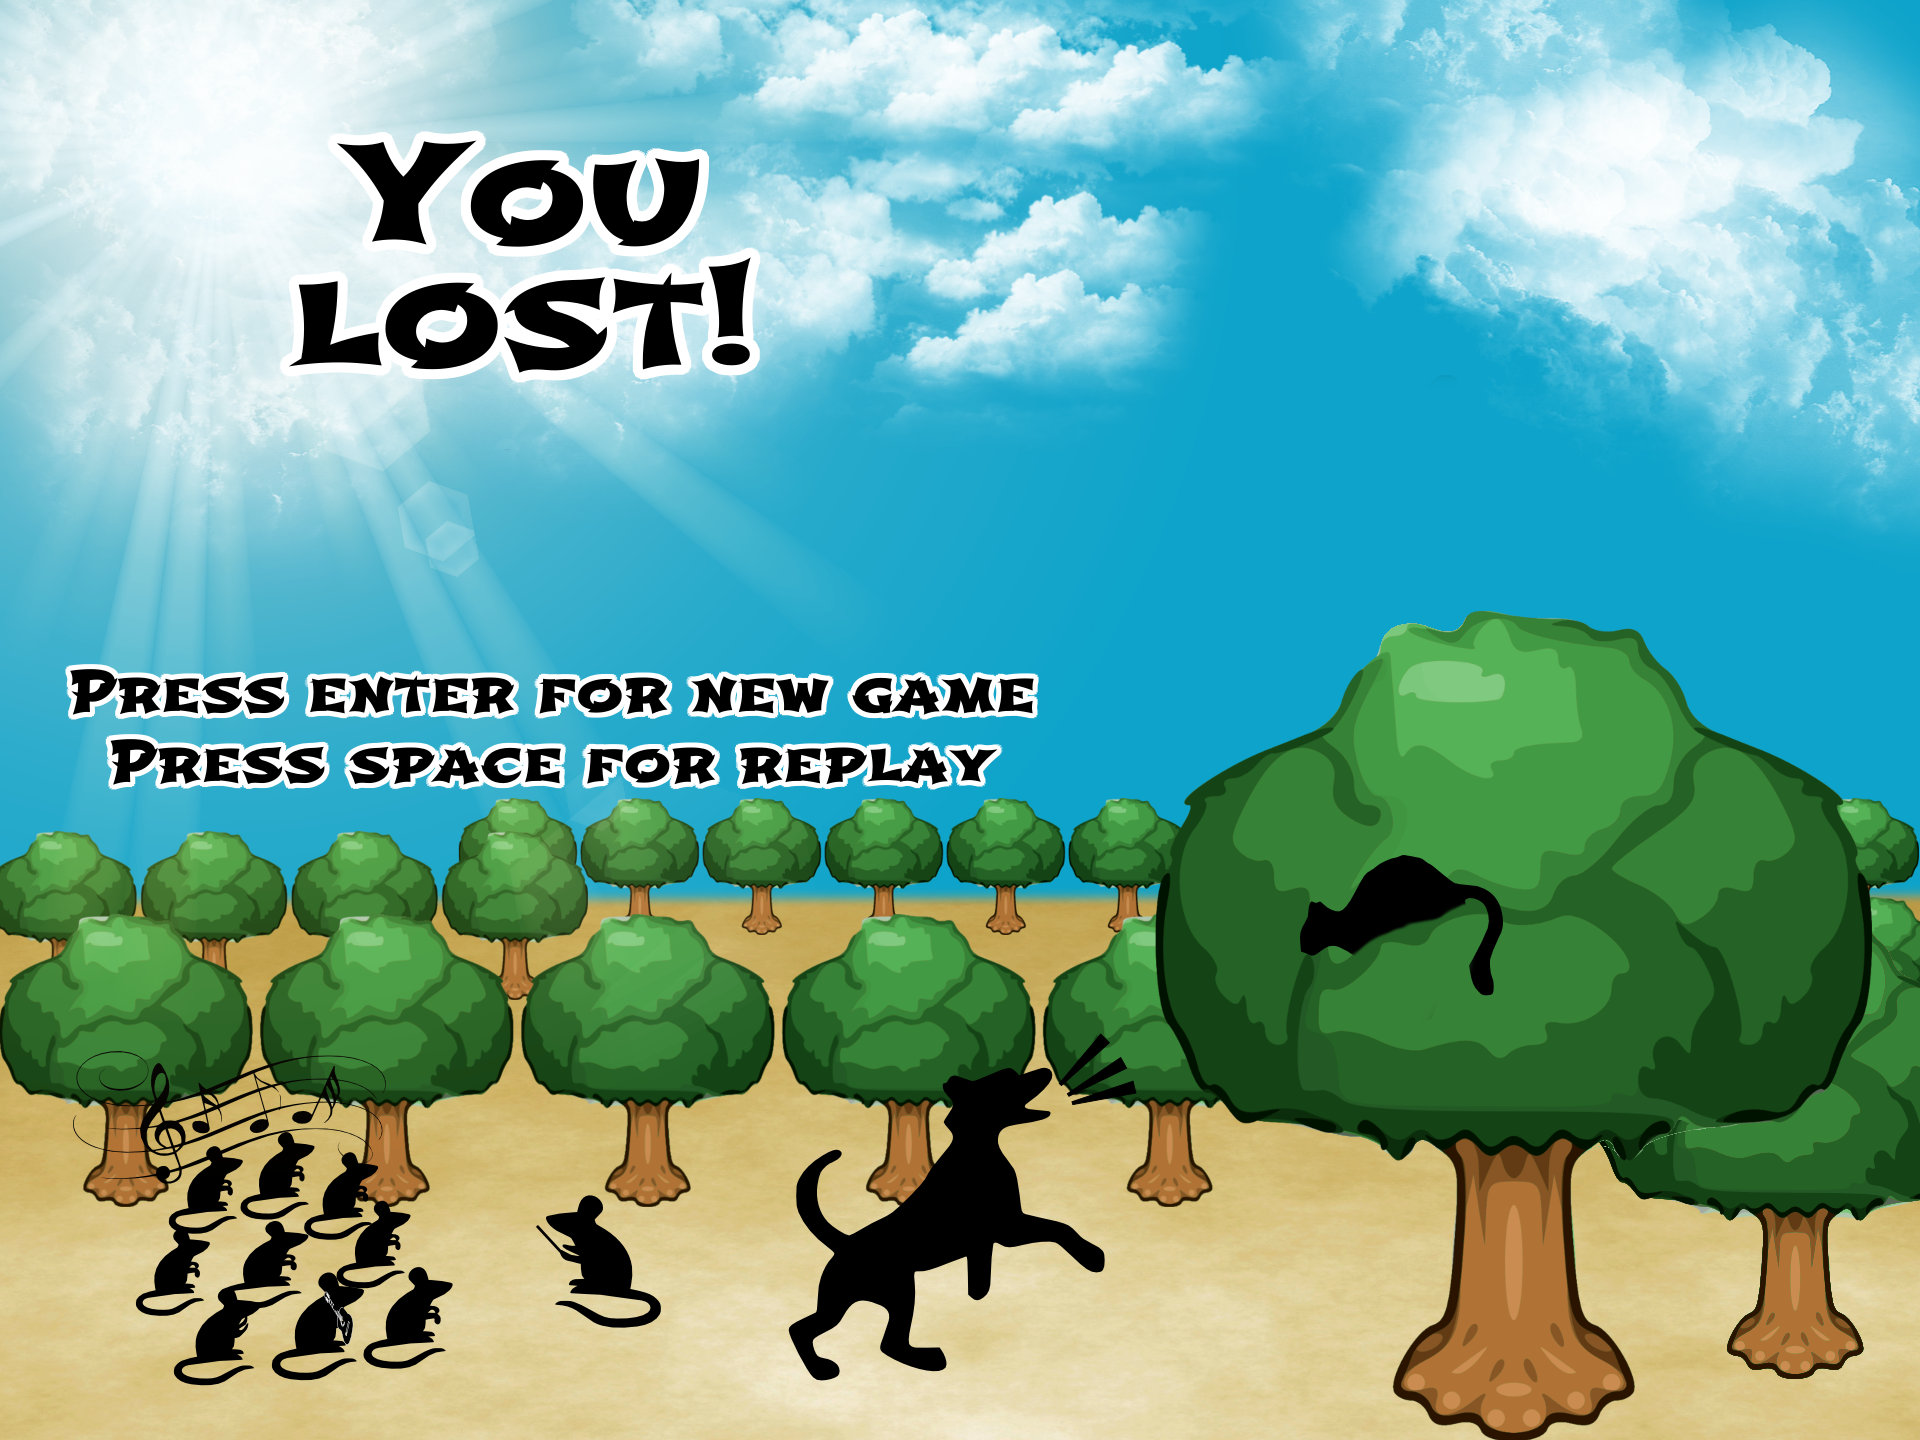
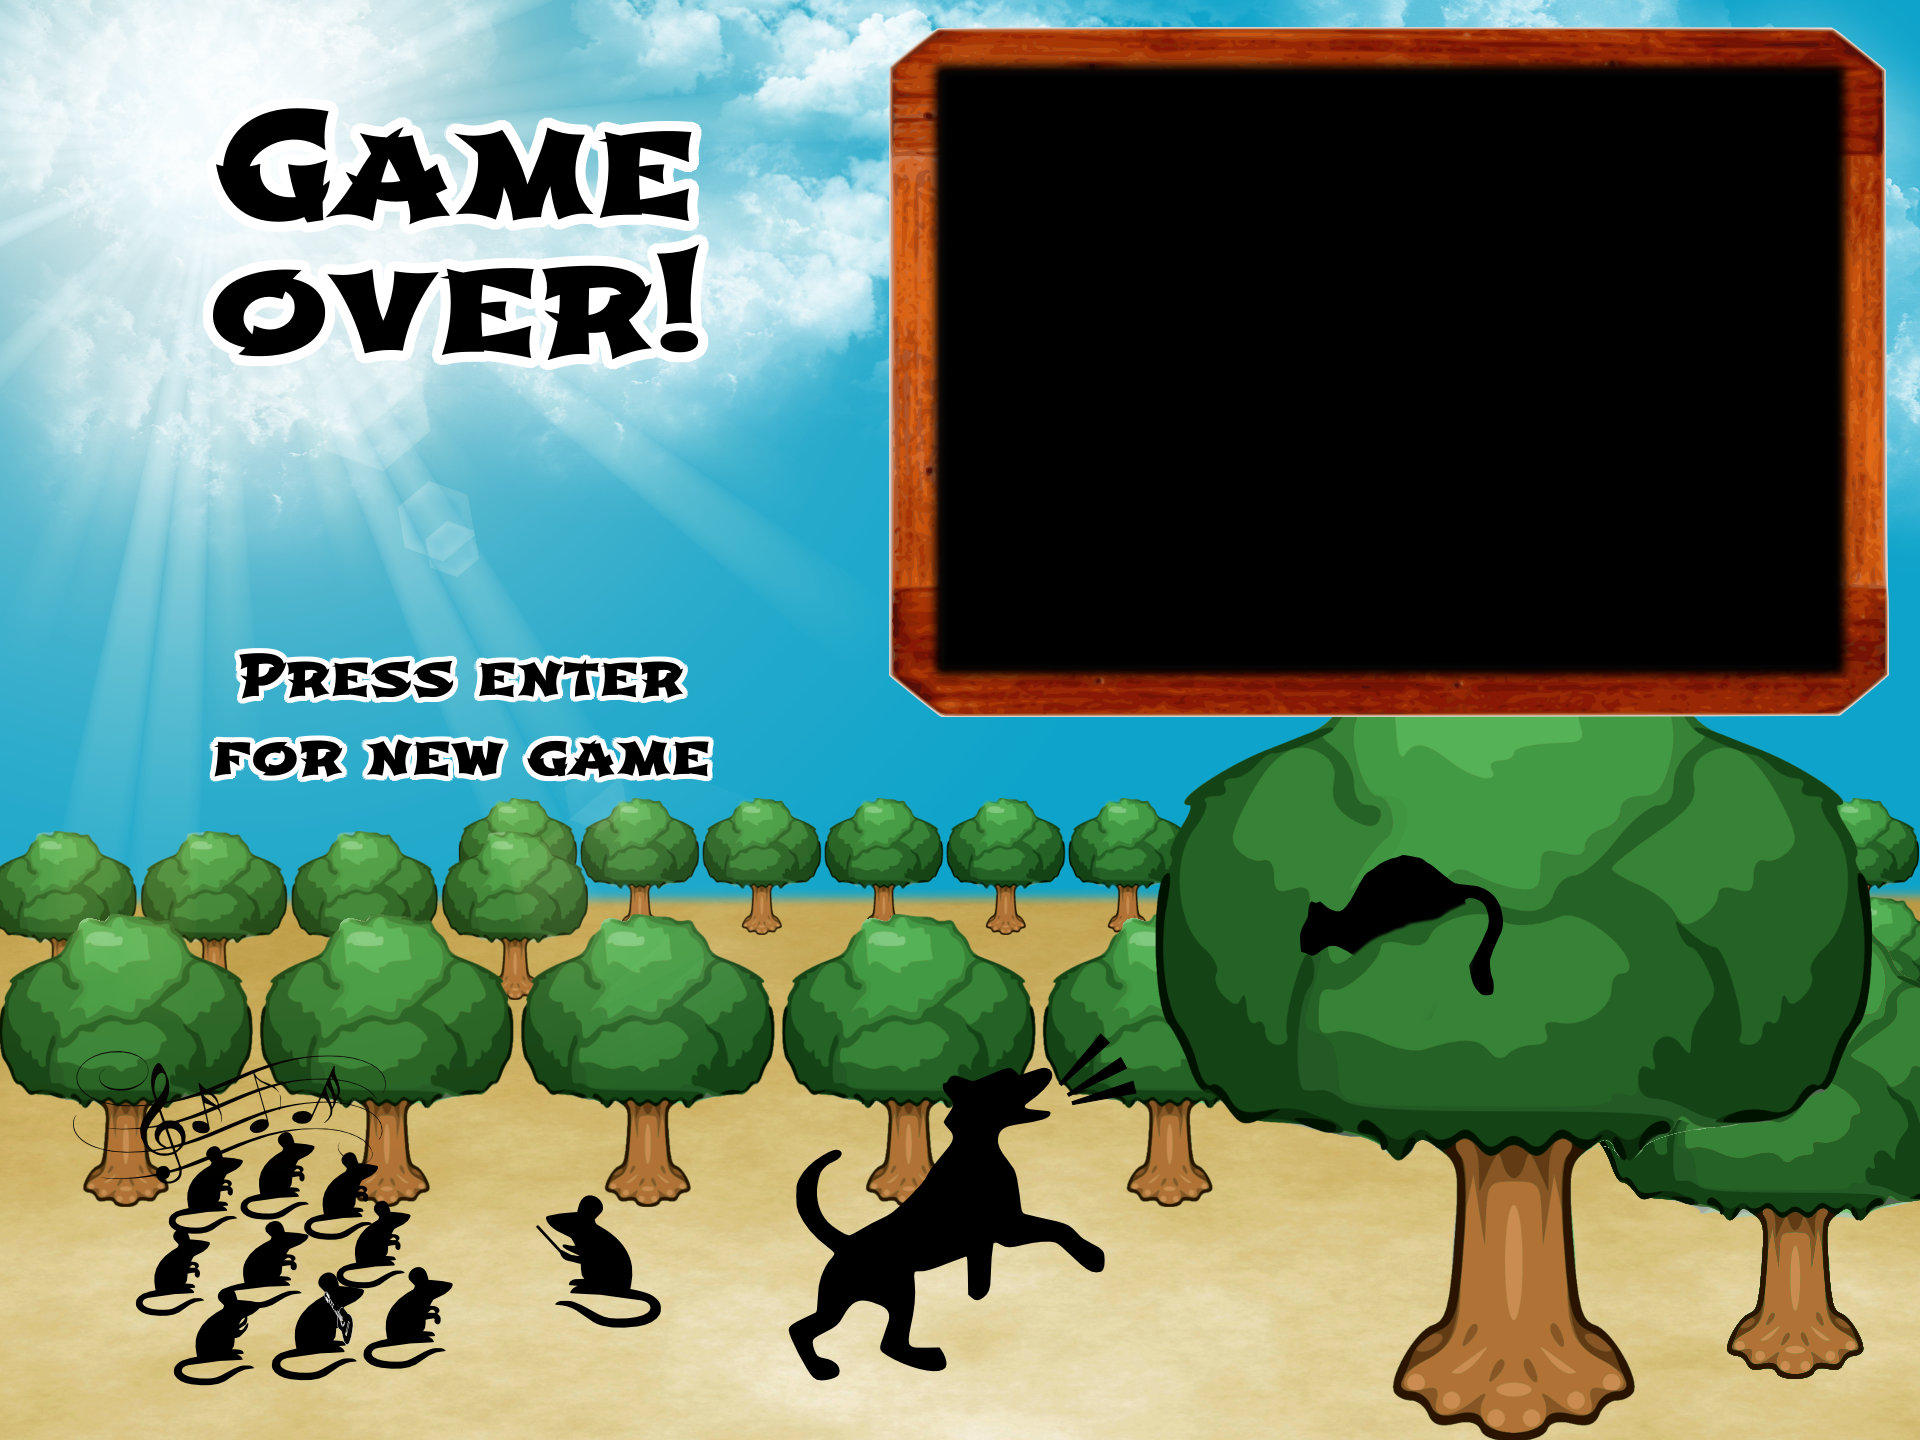
Small AI for dogs
The dogs will now smell you from 100 pixels away and start chasing you,
it random which direction they choose towards you so they don't get
stuck behind an obstacle

Also new endscreen by Juigeli

diff --git a/Dog.js b/Dog.js
@@ -19,12 +19,17 @@ Dog.prototype.draw = function(){
 }
 Dog.prototype.move = function(){
   this.timer==20?this.timer=0:null;
-  !this.timer?(function(){this.movement = this.movementObj[~~(Math.random()*5)];this.timer++;}).call(this,null):this.timer++;
+  !this.timer?(this.movement = this.movementObj[~~(Math.random()*5)],this.timer++):this.timer++;
   if(!this.stopped){
     this.dir==1?this.x-=this.speed:null;
     this.dir==2?this.x+=this.speed:null;
     this.dir==3?this.y+=this.speed:null;
     this.dir==4?this.y-=this.speed:null;
+  }  
+  if(this.hitBox.centerX<hero.hitBox.centerX+(100*scaledWidth)&&this.hitBox.centerX>hero.hitBox.centerX-(100*scaledWidth)&&
+     this.hitBox.centerY>hero.hitBox.centerY-(100*scaledHeight)&&this.hitBox.centerY<hero.hitBox.centerY+(100*scaledHeight))
+  {
+    this.chase();   
   }
   this.x<0-spriteWidth-translate?entities.splice(entities.indexOf(this),1):null;
   this.x>transWidth-spriteWidth?(this.dir=0,this.x=this.rail.x,this.y=this.rail.y):null;
@@ -51,4 +56,20 @@ Dog.prototype.collision = function(){
   if(hero.hitBox.left<this.hitBox.right&&hero.hitBox.right>this.hitBox.left&&hero.hitBox.top<this.hitBox.bottom&&hero.hitBox.bottom>this.hitBox.top){
     gameEnd();   
   }
+}
+Dog.prototype.chase = function(){
+  var choices = [];
+  if(this.x>hero.x){
+    choices.push("left");
+  }  
+  else if(this.x<hero.x){
+    choices.push("right");
+  }
+  if(this.y>hero.y){
+    choices.push("up");
+  }
+  else if(this.y<hero.y){
+    choices.push("down");
+  }
+  this.movement = choices[~~(Math.random()*2)];
 }

diff --git a/FunScript.js b/FunScript.js
@@ -68,7 +68,7 @@ function begin(){
   //interval = setInterval(game,1000/60);
 }
 function game(){
-  //var startTime = new Date();
+  //var startTime = new Date(); // Acceptable times are below 10
   translate+=scrollSpeed*scaledWidth;
   ctx.translate(scrollSpeed*scaledWidth,0); 
   transWidth = canvas.width-translate;
@@ -95,8 +95,8 @@ function game(){
   ctx.clearRect(transWidth,0,spriteWidth*2,canvas.height);  
   //worker.postMessage(entities);
   getFPS();
- // var endTime = new Date();
-//  console.log(endTime.getTime()-startTime.getTime());
+  //var endTime = new Date();
+  //console.log(endTime.getTime()-startTime.getTime());
 }
 function gameEnd(){
   clearInterval(interval);
@@ -110,9 +110,9 @@ function gameEnd(){
     ctx.font = 36*scaledWidth+"px Shojumaru-Regular";
     ctx.strokeStyle = "white";
     ctx.lineWidth = 3;
-    ctx.fillText("SCORE: "+score,(80-String(score).length*15)*scaledWidth,190*scaledHeight);
-    ctx.strokeText("SCORE: "+score,(80-String(score).length*15)*scaledWidth,190*scaledHeight);
-    ctx.putImageData(lastFrame,canvas.width-lastFrame.width,0);
+    ctx.fillText("SCORE: "+score,(70-String(score).length*15)*scaledWidth,185*scaledHeight);
+    ctx.strokeText("SCORE: "+score,(70-String(score).length*15)*scaledWidth,185*scaledHeight);
+    ctx.putImageData(lastFrame,313.3*scaledWidth,23.3*scaledHeight);
    // setTimeout(function(){ctx.drawImage(lastFrame,canvas.width/2,0,canvas.width/1.2,canvas.height/1.2);},0);
   },1000); 
 }

diff --git a/Mouse.js b/Mouse.js
@@ -19,7 +19,7 @@ Mouse.prototype.draw = function(){
 }
 Mouse.prototype.move = function(){
   this.timer==15?this.timer=0:null;
-  !this.timer?(function(){this.movement = this.movementObj[~~(Math.random()*5)];this.timer++;}).call(this,null):this.timer++;
+  !this.timer?(this.movement = this.movementObj[~~(Math.random()*5)],this.timer++):this.timer++;
   if(!this.stopped){
     this.dir==1?this.x-=this.speed:null;
     this.dir==2?this.x+=this.speed:null;
